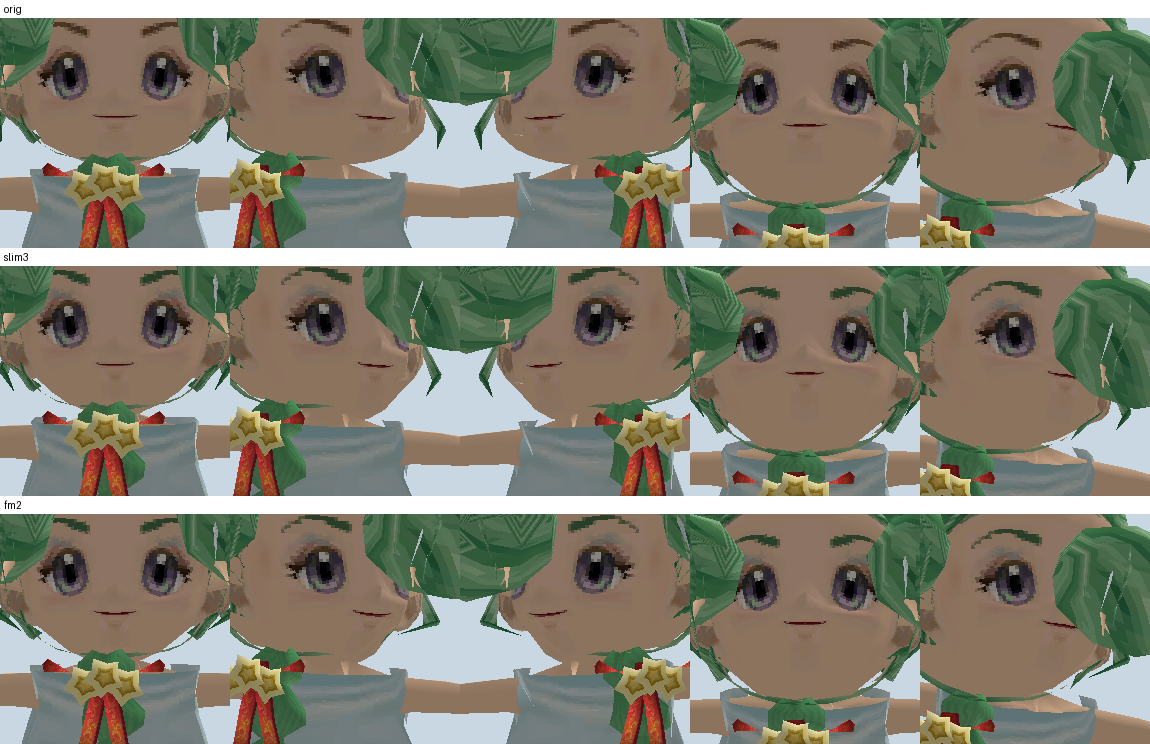
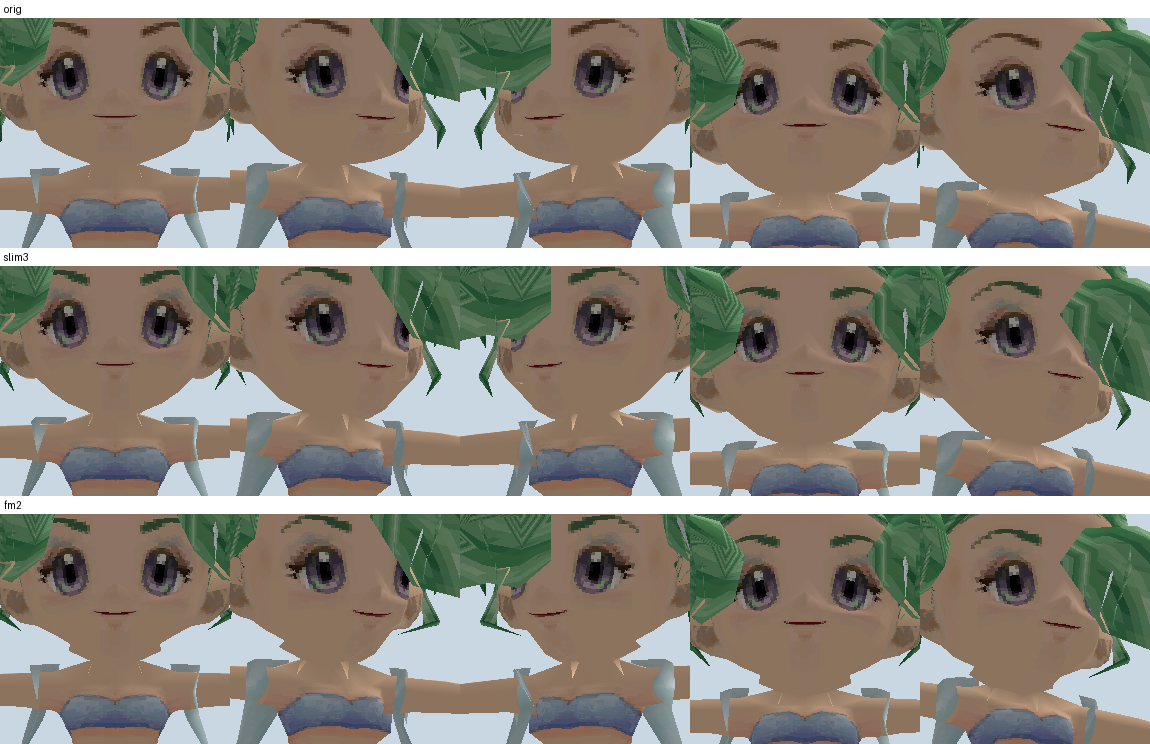
fm2 preview: front half only (renderer drew the back brooch / veil over the chin)
Claude-Session: https://claude.ai/code/session_01EUj78WVuYdjJPM6fszpydi

diff --git a/notes/findings.md b/notes/findings.md
@@ -4079,3 +4079,6 @@ so, door fades are timed there, possibly per frame. Not traced yet.
   0.17), the sides set back (round x s^1.5) and raised (lift x s^1.5), the whole lower face back (back), the chin middle
   down (chin). Defaults 0.22 / 0.10 / 0.04 / 0.03 / 0.02; fm1's forward chin push dropped (it made the muzzle).
   build_slim/gd_0.arc f146ab63; previews/slim_face_fm2.png (front-facing views: original / fm1 / fm2).
+- Preview note: gamerender draws some back parts (the brooch and veil at her back) over the front, so front views
+  hid the chin; slim_face_fm2.png is rendered from the head's front half only (triangles with max z > -0.02).
+  Front = angle pi in gamerender (angle 0 is her back).
